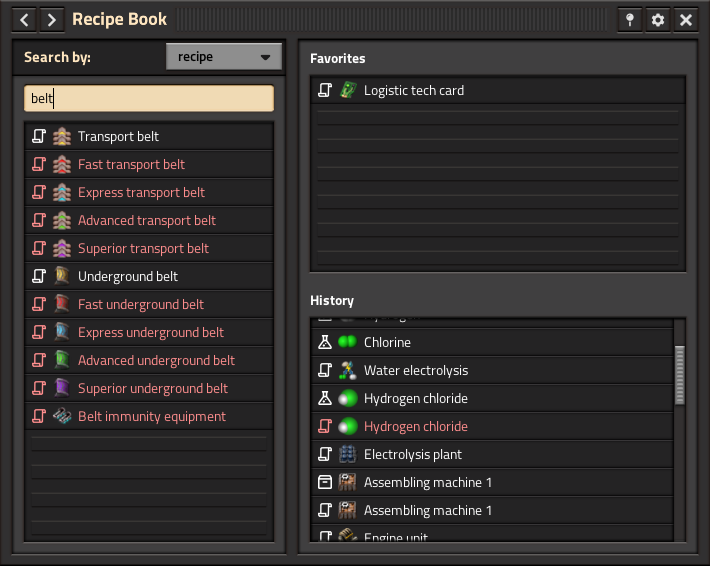
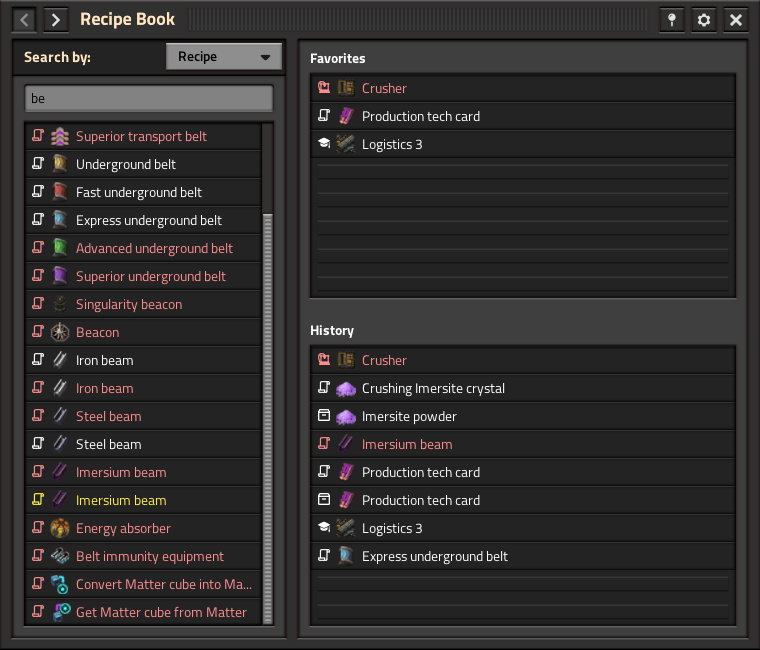
Update screenshots, README

Changed region(s): [[0.0, 0.0, 0.9915, 0.9912], [0.9296, 0.6007, 0.9915, 0.7208]]

diff --git a/README.md b/README.md
@@ -1,2 +1,25 @@
-# Factorio-RecipeBook
-Recipe Book for Factorio.
+# Recipe Book
+
+A [Factorio](https://factorio.com) mod for looking up crafters, fluids, item, recipes, and technologies, and seeing how they interact with one another. Greatly assists in figuring out complex production cycles, especially in large modpacks.
+
+## Download
+
+Download on the [Factorio mod portal](https;//mods.factorio.com/mod/RecipeBook), either on the website or in-game.
+
+## Screenshots
+
+![](/screenshots/home.png)
+
+![](/screenshots/crafter.png)
+
+![](/screenshots/fluid.png)
+
+![](/screenshots/item.png)
+
+![](/screenshots/recipe.png)
+
+![](/screenshots/technology.png)
+
+![](/screenshots/settings.png)
+
+![](/screenshots/quick-ref.png)
